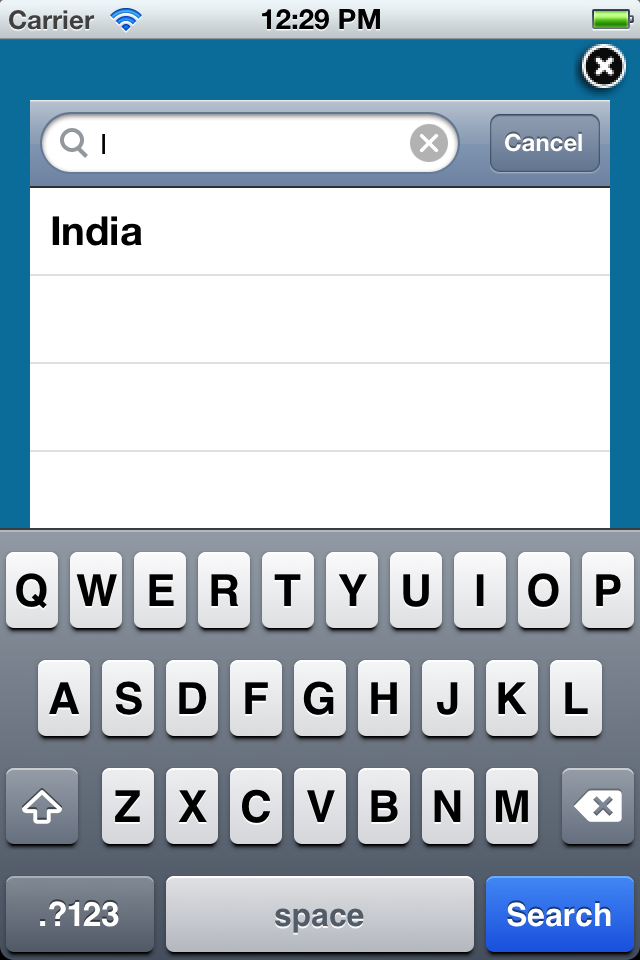
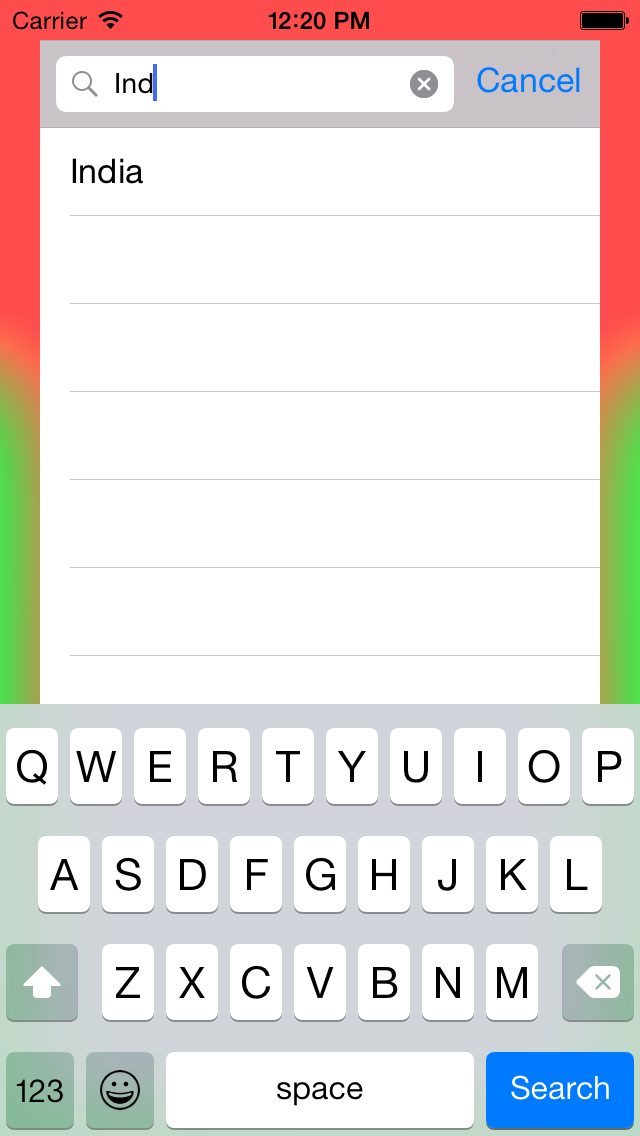
Update readme and screenshots

diff --git a/README.md b/README.md
@@ -39,7 +39,19 @@ Options in PDSearchHUD
 
 Requirements
 ------------
-PDSearchHUD requires either iOS 5.0 and above.
+PDSearchHUD requires either iOS 7.0 and above.
+
+Example
+-------
+
+To run the example project, clone the repo, and run `pod install` from the Example directory first.
+
+## Installation
+
+You can copy the PDSearchHUD.{h,m,xib} files or use the Pod
+
+`pod "SearchHUD"`
+ 
 
 Contact
 -------
